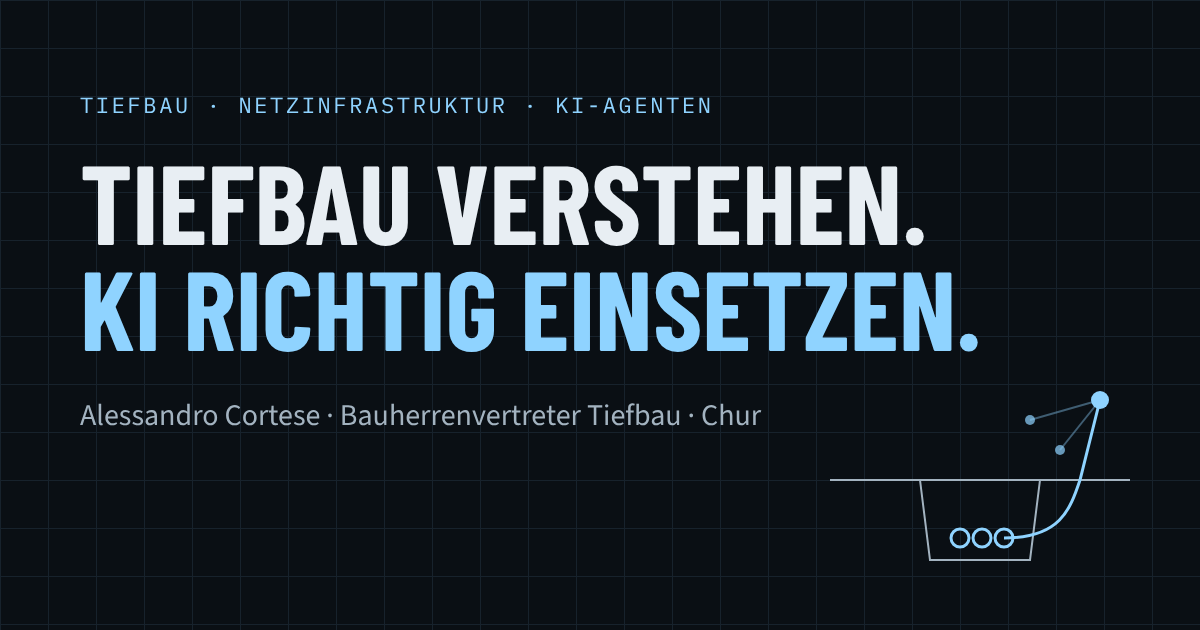
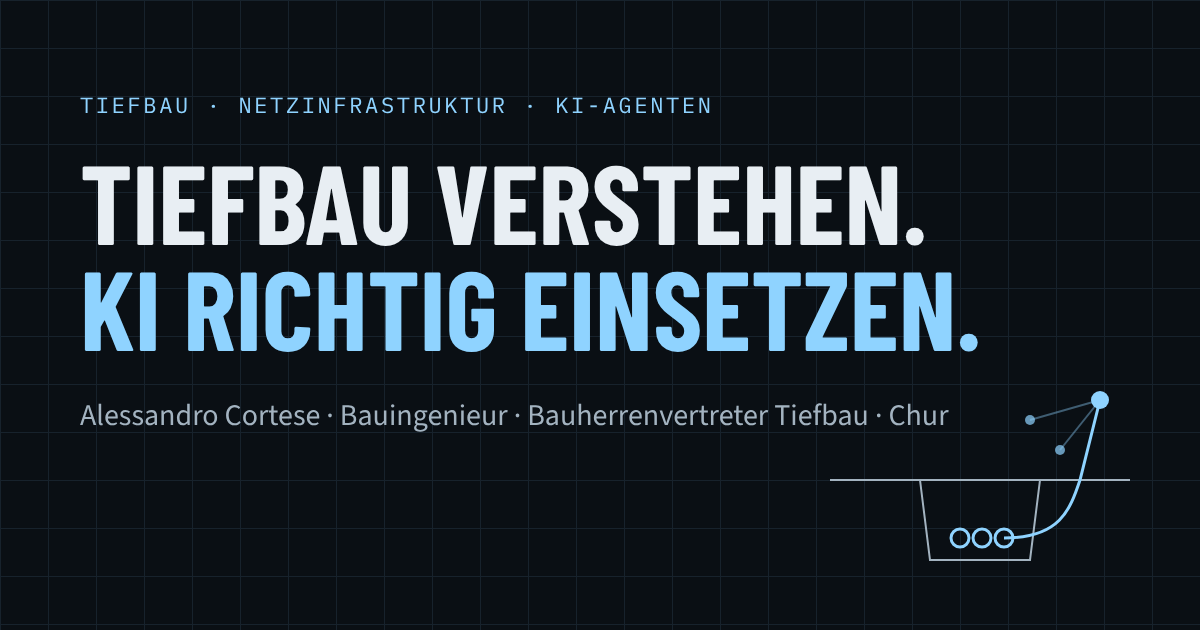
Bezeichnung Bauingenieur, Fotofunktion für Referenzobjekte
- Berufsbezeichnung «Bauingenieur» in Startseite, Profil, Fusszeile, JSON-LD
  und Vorschaubild; Studium ohne Abschlussangabe, kein Diplomtitel
- Referenzobjekte können Fotos mit Pflicht-Bildnachweis erhalten (Bildband auf
  Projekt- und Kompetenzseiten); Anleitung in docs/INHALTE.md

Claude-Session: https://claude.ai/code/session_01LKQWiAQ8nzLFEaU6K3fKnc

Changed region(s): [[0.3083, 0.6333, 0.7092, 0.6937], [0.74, 0.6333, 0.8017, 0.6937]]

diff --git a/src/content.config.ts b/src/content.config.ts
@@ -67,6 +67,12 @@ const referenzen = defineCollection({
     zeitraum: z.string(),
     rolle: z.string(),
     fachgebiete: z.array(z.enum(['kunstbauten', 'strasse', 'bahn', 'wasser', 'netz'])),
+    // Foto: Dateien public/bilder/referenzen/<bild>.jpg und .webp. Nachweis ist Pflicht, sobald ein Bild gesetzt ist.
+    bild: z.string().regex(/^[a-z0-9-]+$/).optional(),
+    bildAlt: z.string().optional(),
+    bildNachweis: z.string().optional(),
+  }).refine((r) => !r.bild || (r.bildAlt && r.bildNachweis), {
+    message: 'Zu jedem Foto gehören bildAlt (Bildbeschreibung) und bildNachweis (Urheber/Lizenz).',
   }),
 });
 

diff --git a/src/data/person.ts b/src/data/person.ts
@@ -4,6 +4,7 @@
 export const person = {
   name: 'Alessandro Cortese',
   vorname: 'Alessandro',
+  beruf: 'Bauingenieur',
   rolle: 'Bauherrenvertreter Tiefbau und Access Project Manager',
   arbeitgeber: 'Swisscom AG',
   ort: 'Chur',
@@ -105,7 +106,7 @@ export const ausbildung = [
   {
     zeit: '2002–2005',
     titel: 'Bauingenieurstudium HTW Chur',
-    hinweis: 'Bau und Gestaltung, Vertiefung Ingenieurbau, berufsbegleitend, ohne Abschluss',
+    hinweis: 'Bau und Gestaltung, Vertiefung Ingenieurbau, berufsbegleitend',
   },
 ];
 

diff --git a/src/lib/seo.ts b/src/lib/seo.ts
@@ -6,7 +6,7 @@ export function personJsonLd(site: URL) {
     '@context': 'https://schema.org',
     '@type': 'Person',
     name: person.name,
-    jobTitle: person.rolle,
+    jobTitle: [person.beruf, person.rolle],
     worksFor: { '@type': 'Organization', name: person.arbeitgeber },
     address: { '@type': 'PostalAddress', addressLocality: person.ort, addressRegion: 'GR', addressCountry: 'CH' },
     knowsLanguage: ['de', 'it', 'en'],

diff --git a/docs/KONZEPT.md b/docs/KONZEPT.md
@@ -13,8 +13,9 @@ Netzbau und beim Einsatz von KI bearbeiten kann und warum ein fachlicher Austaus
 - Angaben im Gespräch (HSO KI-Professional, Kinder-Apps, Werkzeuge)
 
 ### Wichtige Feststellungen
-1. **Kein Titel «Bauingenieur».** Das Bauingenieurstudium an der HTW Chur (2002–2005) wurde ohne Abschluss beendet.
-   Die Webseite positioniert deshalb als «Bauherrenvertreter Tiefbau» mit über 30 Jahren Praxis.
+1. **Berufsbezeichnung «Bauingenieur»** auf ausdrücklichen Wunsch von Alessandro Cortese (16.10.2026). Das
+   Bauingenieurstudium an der HTW Chur (2002–2005) erscheint ohne Abschlussangabe. Ein Diplomtitel («dipl.», «FH»,
+   «Ing. FH») wird nirgends verwendet. Rechtliche Einschätzung siehe DATENSCHUTZ-SICHERHEIT.md.
 2. **Arbeitgeber nur allgemein.** Auf Wunsch keine internen Projekte, Namen oder Werkzeugdetails aus dem
    aktuellen Arbeitsverhältnis. Projekte bei Swisscom erscheinen nicht in den Referenzen.
 3. **Kontakt über LinkedIn.** Es gibt keine freigegebene E-Mail-Adresse. Das Kontaktformular ist vollständig gebaut,
@@ -31,7 +32,7 @@ Netzbau und beim Einsatz von KI bearbeiten kann und warum ein fachlicher Austaus
 
 **Kernaussage:** «Tiefbau verstehen. KI richtig einsetzen.»
 
-Praxisorientierter Tiefbaufachmann, der Infrastrukturwissen in Werkzeuge und KI-Agenten übersetzt. Kein KI-Guru:
+Praxisorientierter Bauingenieur, der Infrastrukturwissen in Werkzeuge und KI-Agenten übersetzt. Kein KI-Guru:
 Die Seite benennt Grenzen offen und trennt klar zwischen beruflicher Erfahrung, persönlichen Projekten und Konzepten.
 
 **Zielgruppen:** Entscheidungsträger aus Bau und Infrastruktur, Telekommunikation und Netzbau, Bauherren und

diff --git a/docs/INHALTE.md b/docs/INHALTE.md
@@ -24,6 +24,23 @@ Die Admin-Oberfläche schreibt Markdown-Dateien ins Repository. Sie ist bewusst 
 Der Build prüft alle Felder. Fehlt etwas oder ist eine Beschreibung zu lang, bricht er mit einer verständlichen
 Meldung ab.
 
+## Fotos der Referenzobjekte
+
+1. Foto als `public/bilder/referenzen/<name>.jpg` und `<name>.webp` ablegen (Breite ca. 1200 px, Querformat 4:3).
+   `<name>` nur mit Kleinbuchstaben, Ziffern und Bindestrichen, am einfachsten die `id` des Objekts.
+2. Im Eintrag in `src/data/referenzen.json` ergänzen:
+   ```json
+   "bild": "calfreisentobelbruecke",
+   "bildAlt": "Instandgesetzte Brücke über das Tobel, Blick von Süden",
+   "bildNachweis": "Alessandro Cortese"
+   ```
+3. Das Foto erscheint automatisch auf der Projektseite und auf der passenden Kompetenzseite.
+
+Ohne `bildAlt` und `bildNachweis` bricht der Build ab. Nur Fotos verwenden, an denen die Rechte geklärt sind:
+eigene Fotos (bei Aufnahmen im Arbeitsverhältnis Freigabe des Arbeitgebers prüfen) oder frei lizenzierte Fotos mit
+Urheber und Lizenz im Nachweis (z. B. «Max Muster, CC BY-SA 4.0, Wikimedia Commons»). Keine Personen erkennbar ohne
+deren Einverständnis.
+
 ## Regeln für Inhalte
 
 - **Nur Belegtes.** Keine erfundenen Kennzahlen, Kunden oder Ergebnisse. Fehlendes als Platzhalter kennzeichnen.

diff --git a/docs/ROADMAP.md b/docs/ROADMAP.md
@@ -7,7 +7,7 @@
 3. **Rechtstexte unvollständig.** Postanschrift, Log-Aufbewahrung und Stand fehlen. Juristische Prüfung ausstehend.
 4. **Fachbeiträge sind Entwürfe.** Sie müssen inhaltlich geprüft und freigegeben werden.
 5. **HSO-Abschlussjahr unbekannt.** Auf der Profilseite als «Jahr offen» markiert.
-6. **Keine echten Baustellenfotos.** Bilder stammen aus Porträt und App-Screenshots, sonst Illustrationen.
+6. **Noch keine Fotos der Referenzobjekte.** Die Funktion ist vorbereitet (docs/INHALTE.md). Eine Websuche fand keine frei lizenzierten, eindeutig zuordenbaren Fotos; eigene Fotos sind die beste Quelle.
 7. **Ratenbegrenzung nur im Arbeitsspeicher** (eine Instanz).
 8. **Keine Mehrsprachigkeit.** Nur Deutsch.
 9. **Admin nur lokal.** Inhalte pflegen braucht Node.js auf dem eigenen Rechner. Alternative siehe unten.

diff --git a/docs/DATENSCHUTZ-SICHERHEIT.md b/docs/DATENSCHUTZ-SICHERHEIT.md
@@ -40,6 +40,10 @@
 
 ## Weitere Rechtsfragen
 
+- ⚠ **Berufsbezeichnung «Bauingenieur»:** auf Wunsch verwendet, ohne Diplomtitel. Unrichtige Titel oder
+  Berufsbezeichnungen, die besondere Fähigkeiten vermuten lassen, können nach Art. 3 Abs. 1 lit. c UWG unlauter sein.
+  Geschützt sind insbesondere Hochschultitel (z. B. «dipl. Bauingenieur FH/ETH»). Verwendung juristisch bestätigen lassen.
+
 - ⚠ **Markenrecht «Pokémon»:** Der App-Name «Rechnen mit Pokémon» verwendet eine geschützte Marke. Für eine private,
   nicht öffentlich verfügbare App unkritischer; auf einer öffentlichen Webseite trotzdem klären oder umbenennen.
 - ⚠ **Bilder Dritter:** Die App-Screenshots enthalten Emoji-Grafiken des Betriebssystems. Nutzung prüfen.
